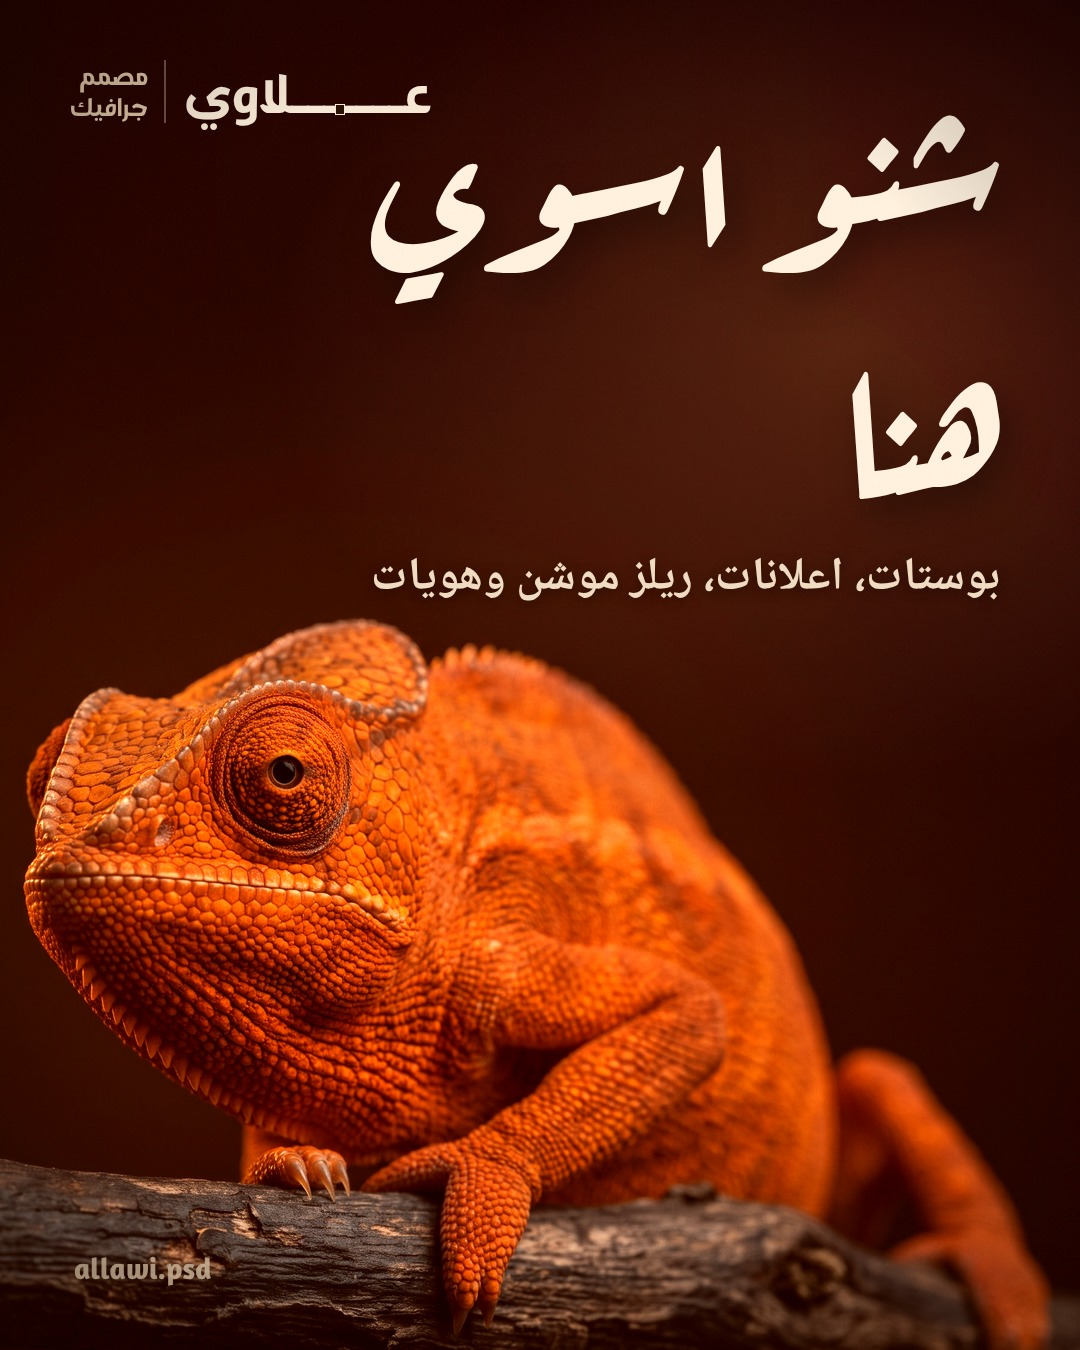
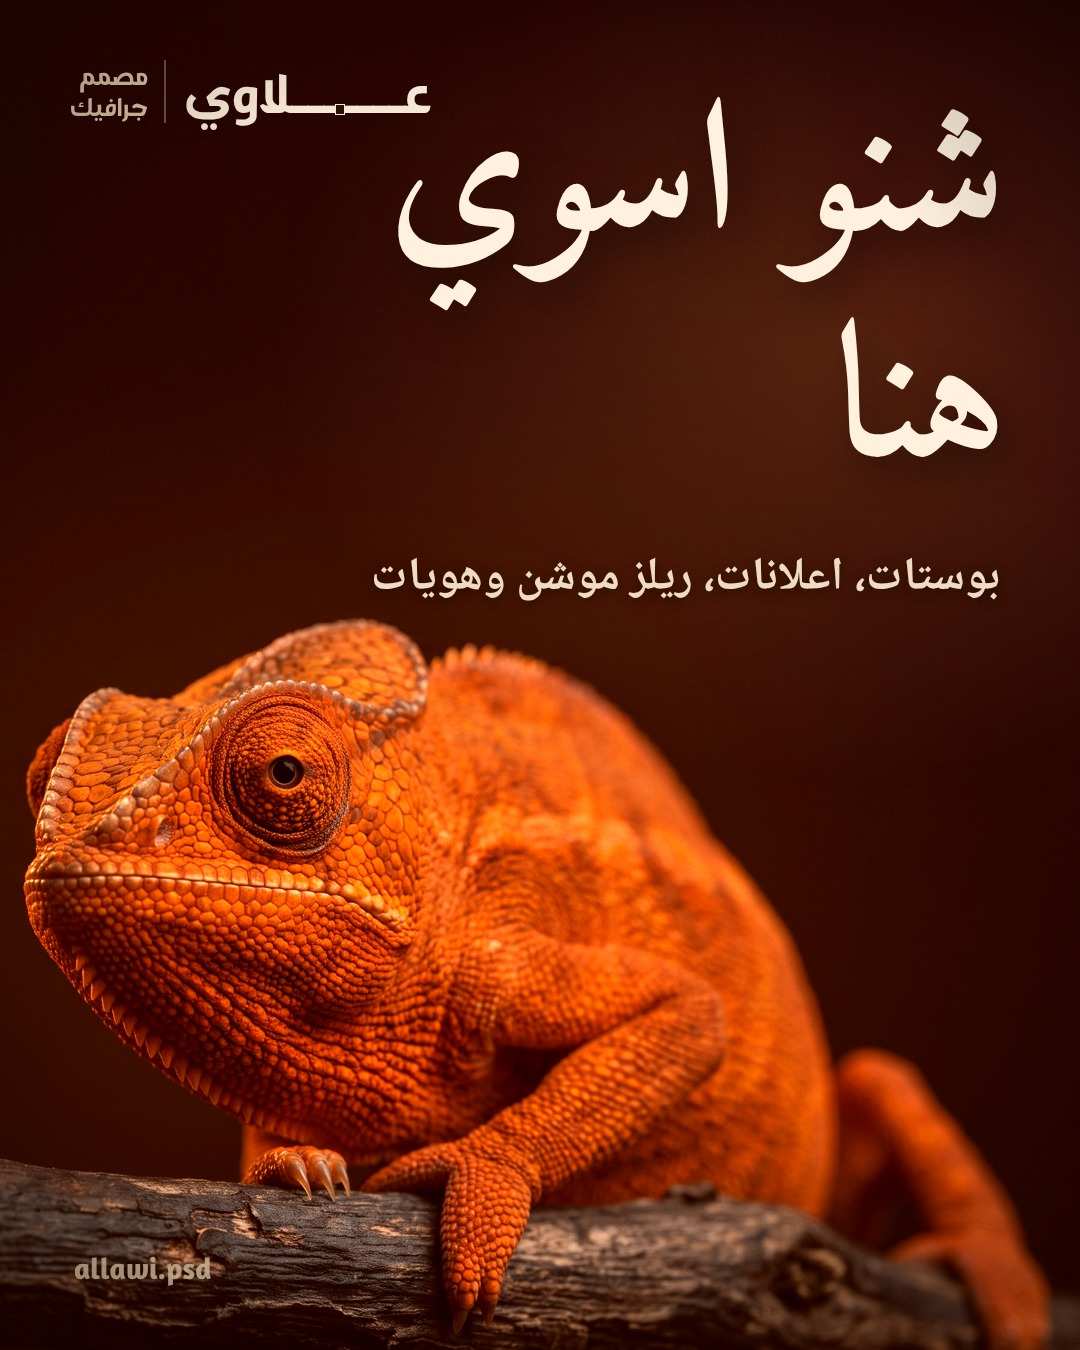
Rebrand carousel: Amiri Bold headlines for readability

Changed region(s): [[0.7028, 0.0933, 0.9472, 0.3733], [0.3361, 0.0622, 0.6722, 0.2489]]

diff --git a/marketing/rebrand/carousel.html b/marketing/rebrand/carousel.html
@@ -4,8 +4,8 @@
 <meta charset="utf-8">
 <style>
   @font-face { font-family: Sahabah; src: url(../brand-fonts/DG-Sahabah-Reg.ttf); font-weight: 400; }
-  /* headlines in a bold Ruqaa, written by hand rather than drawn, the line under it in a plain Naskh */
-  @font-face { font-family: Ruqaa; src: url(fonts/ArefRuqaa-Bold.ttf); font-weight: 700; }
+  /* headlines in a bold classic Naskh, calligraphic but easy to read, the line under it in a plain Naskh */
+  @font-face { font-family: Ruqaa; src: url(fonts/Amiri.ttf); font-weight: 700; }
   @font-face { font-family: Naskh; src: url(fonts/NotoNaskhArabic.ttf); font-weight: 700; }
   * { margin:0; padding:0; box-sizing:border-box }
   body { background:#111; display:flex; gap:40px; padding:40px; width:3500px; font-family:Sahabah, sans-serif; font-weight:400; font-synthesis:none }
@@ -20,7 +20,7 @@
 
   /* the headline: stacked on the right, lit from the same lamp (white at the top, warm at the foot), with a soft shadow
      on the backdrop behind it so it sits in the room rather than on the screen */
-  .head { right:74px; top:var(--top); direction:rtl; text-align:right; white-space:nowrap; font-family:Ruqaa; font-weight:700;
+  .head { right:74px; top:var(--top); direction:rtl; text-align:right; white-space:nowrap; font-family:Ruqaa; font-weight:700; font-feature-settings:"liga" 0, "dlig" 0;
     color:#fff1de; font-size:var(--fs); line-height:1.22; filter:drop-shadow(10px 16px 18px rgba(18,4,0,.55)) }
   .line { right:80px; top:var(--ltop); direction:rtl; text-align:right; font-family:Naskh; font-weight:700; font-size:46px; line-height:1.5;
     color:#efdcc2; text-shadow:0 2px 12px rgba(18,4,0,.5) }
@@ -64,7 +64,7 @@
 <div class="art" id="s3">
   <img class="plate" src="img/plate-chameleon-3.png" alt="">
   <div class="lamp"></div>
-  <div class="head">دزلي<br>بالخاص</div>
+  <div class="head">دزلي<br>بالـخاص</div>
   <div class="line">كلي شنو تبيع، وارجعلك بفكرة</div>
   <div class="lock"><span class="wm"><span class="t">عـــــــلاوي</span><span class="h"></span></span><span class="who">مصمم<br>جرافيك</span></div>
   <div class="handle">allawi.psd</div>

diff --git a/marketing/rebrand/README.md b/marketing/rebrand/README.md
@@ -36,6 +36,7 @@ around the subject, the wordmark small in the top corner.
 
 The user felt the font was the problem ("the way the text looks") and turned down DG Sahabah, eight Google display
 faces (`fonttest.html`) and six Naskh/Ruqaa faces (`naskhtest.html`), then asked me to choose to match ra.graphicc,
-whose headlines are a bold hand-brushed Naskh. Headlines are now Aref Ruqaa Bold in cream (hand-written strokes; the
-Ink version shades its overlaps grey and its palette doesn't override cleanly), the line under each in Noto Naskh Arabic
-Bold. The logo stays in DG Sahabah. Fonts are in `fonts/` (all SIL Open Font License, from Google Fonts).
+whose headlines are a bold hand-brushed Naskh. Aref Ruqaa came next and was hard to read, so headlines are now Amiri
+Bold in cream: a classic Naskh that reads at a glance but keeps a calligraphic flow. Its required ل-خ stacking made
+«بالخاص» hard to read, so it is set «بالـخاص» with a short kashida. The line under each headline is Noto Naskh Arabic
+Bold; the logo stays in DG Sahabah. Fonts are in `fonts/` (all SIL Open Font License, from Google Fonts).
